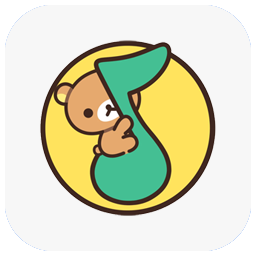
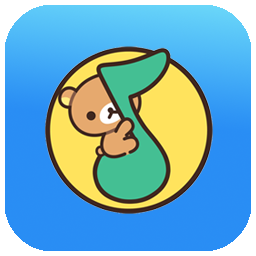
QQ 只要 128k；漫游卡死修复；源改名换图标
登录成功了（可播 22/51 → 42/51），但暴露一个更隐蔽的问题：登录后我优先要
320k，服务端**照给 purl**，那个地址却打不开（mpv 报 Failed to open，URL 里
还带着 `src=` 指向另一个文件名——明显是服务端做的降级替换）。于是
prepareQueue 以为拿到了地址、队列显示「可播 51/51」，播起来全是哑的。

320k 要绿钻。与其拿一个「看着有、其实放不出」的地址，不如老实要 128k ——
登录态本身已经解锁了会员曲，这才是登录的价值所在。顺带在解析时校验
midurlinfo 的 result：非 0 表示服务端其实没给到这首，那种 purl 直接跳过。

漫游卡死：大图这首取到的地址打不开时，播放器停在它上面，而
`_togglePlayRoam` 判断「当前歌 == hero」就去 togglePlayPause —— 于是连点
几次都在重播同一首哑歌。改成：是这首但没在响，就换一首。

改名换图：网易云音乐 → 网易音乐，QQ 音乐 → 扣扣音乐（登录页、账号弹窗、
搜索页标题一并跟上）；「我的」页顶部那张卡标题改成「账号管理」、换新图标，
副标题不再拼服务器地址（原来挂着一串 `admin · http://192.168.1.123:5666`）；
音乐来源未登录时的副标题改成「免登录 · 登录获取更多」；主题外观、扣扣音乐
换成新图标。

diff --git a/lib/app/services/qq/qq_api_client.dart b/lib/app/services/qq/qq_api_client.dart
@@ -293,16 +293,17 @@ class QQApiClient {
   /// 提交多个候选，服务端挑得到哪个给哪个 —— 所以这里把几种历史格式都塞
   /// 进去，别为「拼错一种就没地址」再跑一轮。
   Future<String?> songUrl(String mid, {String? mediaMid}) async {
-    // 登录了先试 320k，不行再退 128k；没登录直接 128k —— 高音质要会员，
-    // 没登录连试都是白跑一轮。
-    final auth = QQAuth.instance;
-    final prefixes = auth.isLoggedIn.value
-        ? const ['M800', 'M500']
-        : const ['M500'];
-    for (final prefix in prefixes) {
-      final url = await _songUrlWith(prefix, mid, mediaMid);
-      if (url != null) return url;
-    }
+    // 只要 128k。
+    //
+    // 试过登录后先要 320k：服务端**照给 purl**，但那个地址实际打不开
+    // （mpv 报 Failed to open，URL 里还带着 `src=` 指向另一个文件名——
+    // 明显是服务端做了降级替换）。结果是 prepareQueue 以为拿到了地址、
+    // 队列显示「可播 51/51」，播起来却全是哑的，漫游更是卡在那一首反复重播。
+    //
+    // 320k 要绿钻。与其拿一个「看着有、其实放不出」的地址，不如老老实实
+    // 要 128k —— 登录态本身已经把会员曲解锁了（22/51 → 42/51）。
+    final url = await _songUrlWith('M500', mid, mediaMid);
+    if (url != null) return url;
     debugPrint('[QQ] $mid 无可播地址（多半是会员曲）');
     return null;
   }
@@ -359,10 +360,16 @@ class QQApiClient {
     String? purl;
     for (final info in infos.whereType<Map>()) {
       final value = info['purl'] as String?;
-      if (value != null && value.isNotEmpty) {
-        purl = value;
-        break;
+      if (value == null || value.isEmpty) continue;
+      // result 非 0 表示服务端其实没给到这首（常见于会员曲降级），
+      // 这时 purl 里往往还带一个指向别的文件的 `src=`，拿去播必然打不开。
+      final result = info['result'];
+      if (result is int && result != 0) {
+        debugPrint('[QQ] $mid 地址被降级：result=$result');
+        continue;
       }
+      purl = value;
+      break;
     }
     if (purl == null) return null;
     if (purl.startsWith('http')) return purl;

diff --git a/lib/components/account/profile_account_card.dart b/lib/components/account/profile_account_card.dart
@@ -80,7 +80,7 @@ class _ProfileAccountCardInner extends StatelessWidget {
                 // 这张卡就是「飞牛音乐」这个源本身，直接挂品牌图标；
                 // 图标缺失时退回原来的首字母头像。
                 child: Image.asset(
-                  'assets/source/feiniu.png',
+                  'assets/icon/account.png',
                   width: 56,
                   height: 56,
                   fit: BoxFit.cover,
@@ -104,7 +104,7 @@ class _ProfileAccountCardInner extends StatelessWidget {
                   mainAxisSize: MainAxisSize.min,
                   children: [
                     Text(
-                      account.displayName,
+                      '账号管理',
                       maxLines: 1,
                       overflow: TextOverflow.ellipsis,
                       style: TextStyle(
@@ -115,8 +115,13 @@ class _ProfileAccountCardInner extends StatelessWidget {
                       ),
                     ),
                     const SizedBox(height: 3),
+                    // 副标题只给用户名。原来还拼了服务器地址（形如
+                    // `admin · http://192.168.1.123:5666`），首页上挂着一串
+                    // 内网地址既没用又刺眼，真要看进账号页里有。
                     Text(
-                      '${account.username} · ${account.serverLabel}',
+                      account.displayName.isEmpty
+                          ? account.username
+                          : account.displayName,
                       maxLines: 1,
                       overflow: TextOverflow.ellipsis,
                       style: TextStyle(

diff --git a/lib/pages/home/home_page.dart b/lib/pages/home/home_page.dart
@@ -874,10 +874,19 @@ class _HomePageState extends State<HomePage>
   /// [source] 指定首页数据源：列表只是 10 首预览，播放时按队列上限
   /// 请求完整列表填充队列，而不是只播预览的 10 首。
   /// hero 大图按钮：正在放这首 hero 歌就切换播放/暂停，否则起播漫游。
+  ///
+  /// 「当前歌就是 hero」时也算在播：有些歌服务端给了地址但实际打不开，
+  /// 播放器会停在那首上，此时再点就该换一首，而不是把同一首再放一遍
+  /// ——之前就是这么卡住的，连点几次全是同一首。
   void _togglePlayRoam() {
     final hero = _heroSong;
     if (hero != null && _player.currentSongSignal.value?.id == hero.id) {
-      unawaited(_player.togglePlayPause());
+      if (_player.isPlayingSignal.value) {
+        unawaited(_player.togglePlayPause());
+      } else {
+        // 已经是这首但没在响 —— 多半是取到的地址打不开，换一首。
+        unawaited(_refreshRoam());
+      }
       return;
     }
     _playRoam();

diff --git a/lib/pages/profile/profile_page.dart b/lib/pages/profile/profile_page.dart
@@ -283,7 +283,7 @@ class _MusicSourceSection extends StatelessWidget {
       final logout = await showDialog<bool>(
         context: context,
         builder: (context) => AlertDialog(
-          title: const Text('QQ 音乐账号'),
+          title: const Text('扣扣音乐账号'),
           content: Text(
             '已登录${QQAuth.instance.nickname.isEmpty ? '' : '：${QQAuth.instance.nickname}'}。'
             '退出后仍可用推荐、榜单和搜索，但会员曲和高音质拿不到。',
@@ -360,7 +360,7 @@ class _SourceTile extends StatelessWidget {
           ? '${source.unavailableHint} · 点击登录'
           : loggedIn
           ? (selected ? '当前使用中' : '点击切换')
-          : '未登录，只有推荐和排行榜${selected ? '' : ' · 点击切换'}',
+          : '免登录 · 登录获取更多',
       onTap: onTap,
       leading: ClipRRect(
         borderRadius: BorderRadius.circular(8),

diff --git a/lib/pages/netease/netease_search_page.dart b/lib/pages/netease/netease_search_page.dart
@@ -165,7 +165,7 @@ class _NetEaseSearchPageState extends State<NetEaseSearchPage> {
 
     if (!widget.embedded) {
       return Scaffold(
-        appBar: AppBar(title: const Text('网易云音乐'), actions: [loginAction]),
+        appBar: AppBar(title: const Text('网易音乐'), actions: [loginAction]),
         body: body,
       );
     }
@@ -173,7 +173,7 @@ class _NetEaseSearchPageState extends State<NetEaseSearchPage> {
     return AppNavigationModeBuilder(
       builder: (context, useBottomNavigation) => AppPageScaffold(
         appBar: AppTopBar(
-          title: '搜索 · 网易云',
+          title: '搜索 · 网易音乐',
           showBackButton: !useBottomNavigation,
           actions: [loginAction],
         ),

diff --git a/lib/pages/qq/qq_login_page.dart b/lib/pages/qq/qq_login_page.dart
@@ -109,7 +109,7 @@ class _QQLoginPageState extends State<QQLoginPage> {
   Widget build(BuildContext context) {
     final scheme = Theme.of(context).colorScheme;
     return AppPageScaffold(
-      appBar: const AppTopBar(title: 'QQ 音乐登录', showBackButton: true),
+      appBar: const AppTopBar(title: '扣扣音乐登录', showBackButton: true),
       showMiniPlayer: false,
       body: Center(
         child: Padding(

diff --git a/lib/app/services/source/netease_source.dart b/lib/app/services/source/netease_source.dart
@@ -37,7 +37,7 @@ class NetEaseSource implements MusicSource {
   String get id => 'netease';
 
   @override
-  String get label => '网易云音乐';
+  String get label => '网易音乐';
 
   @override
   IconData get icon => Icons.cloud_rounded;

diff --git a/lib/app/services/source/qq_source.dart b/lib/app/services/source/qq_source.dart
@@ -32,7 +32,7 @@ class QQSource implements MusicSource {
   String get id => 'qq';
 
   @override
-  String get label => 'QQ 音乐';
+  String get label => '扣扣音乐';
 
   @override
   IconData get icon => Icons.music_note_rounded;
